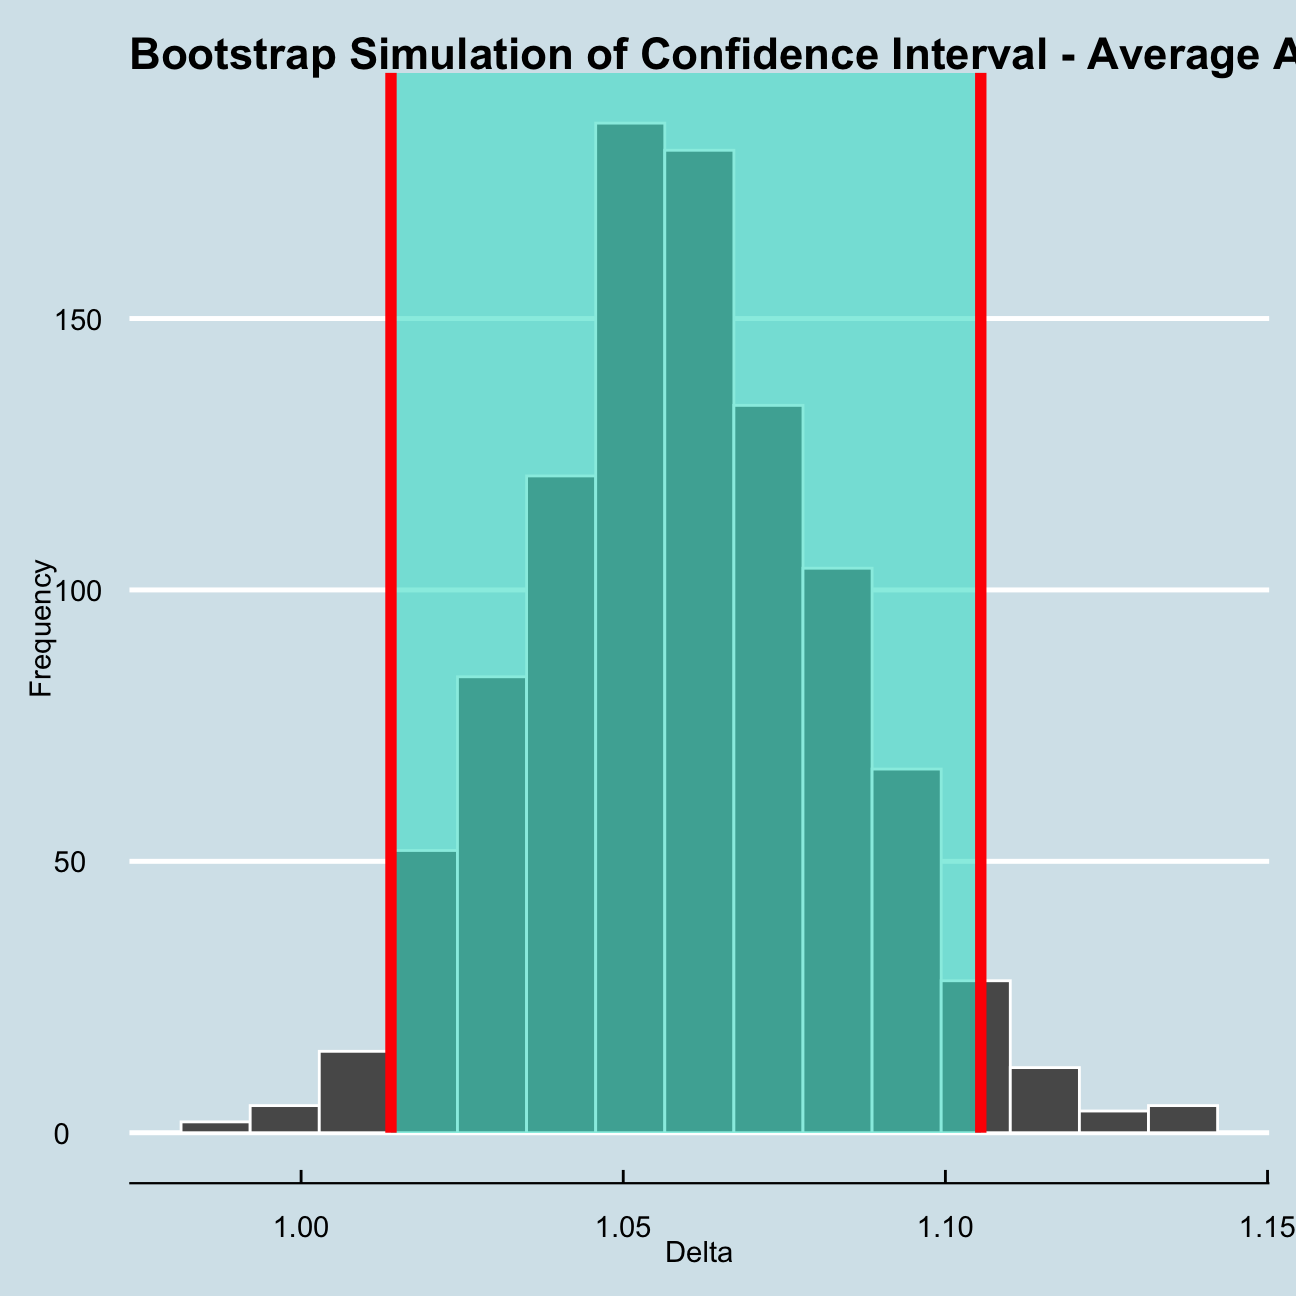
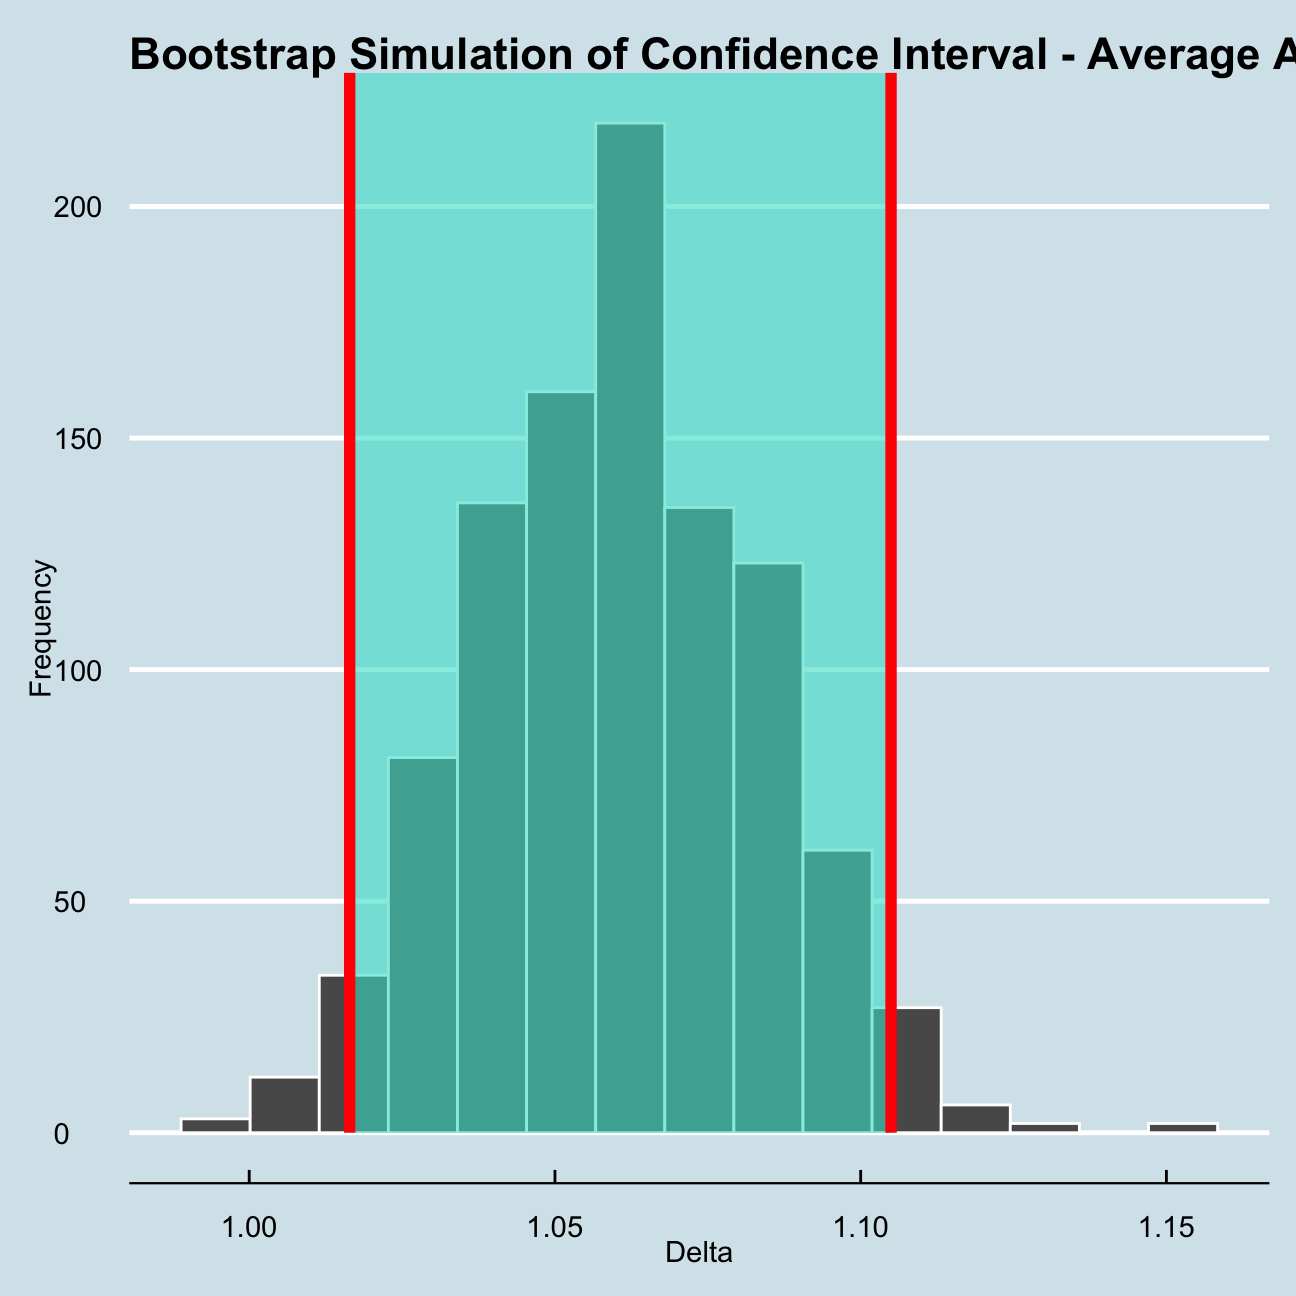
initial commit

diff --git a/content/blogs/blog1.html b/content/blogs/blog1.html
@@ -5,10 +5,10 @@ categories:
 date: "2017-10-31T21:28:43-05:00"
 description: ""
 draft: false
-image: Climate Change 2.jpeg
+image: Climate_Change_2.jpg
 keywords: ""
 slug: Climate_Change
-title: Ipsum
+title: Climate change
 ---
 
 <script src="/rmarkdown-libs/header-attrs/header-attrs.js"></script>
@@ -134,7 +134,7 @@ perc_ci</code></pre>
 <pre><code>## # A tibble: 1 × 2
 ##   lower_ci upper_ci
 ##      &lt;dbl&gt;    &lt;dbl&gt;
-## 1     1.01     1.11</code></pre>
+## 1     1.02     1.10</code></pre>
 <pre class="r"><code>visualise(boot_delta) +
   shade_ci(endpoints = perc_ci, color = &quot;red&quot;) +
   labs(title = &quot;Bootstrap Simulation of Confidence Interval - Average Annual Delta Since 2011&quot;,
